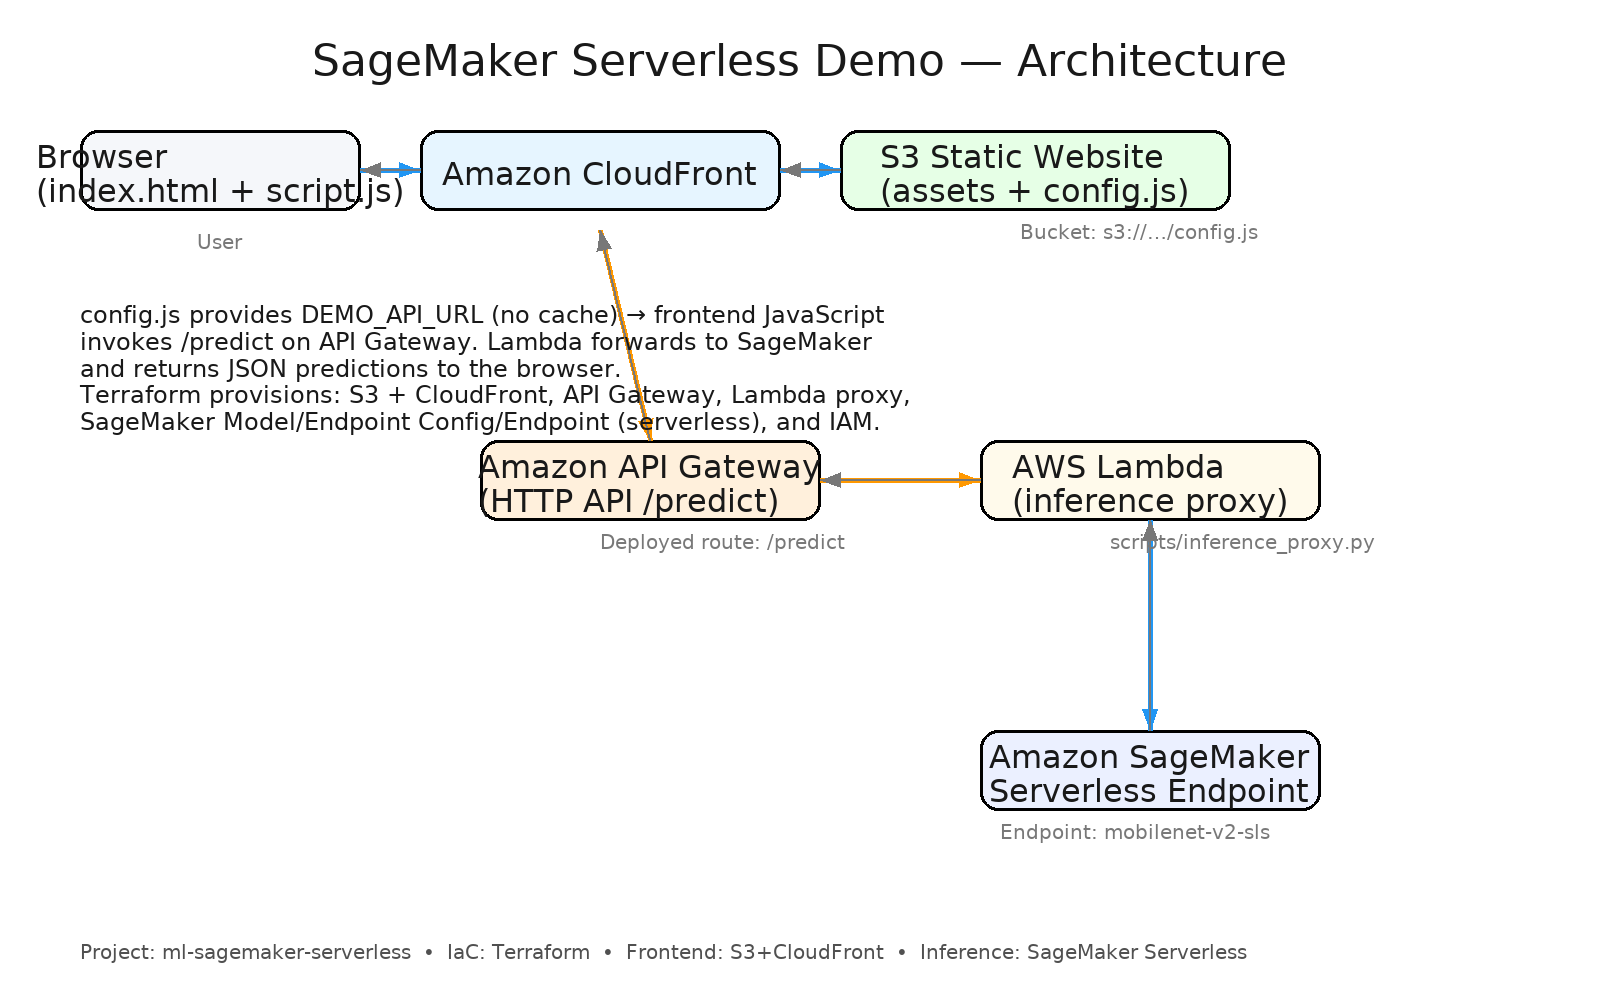
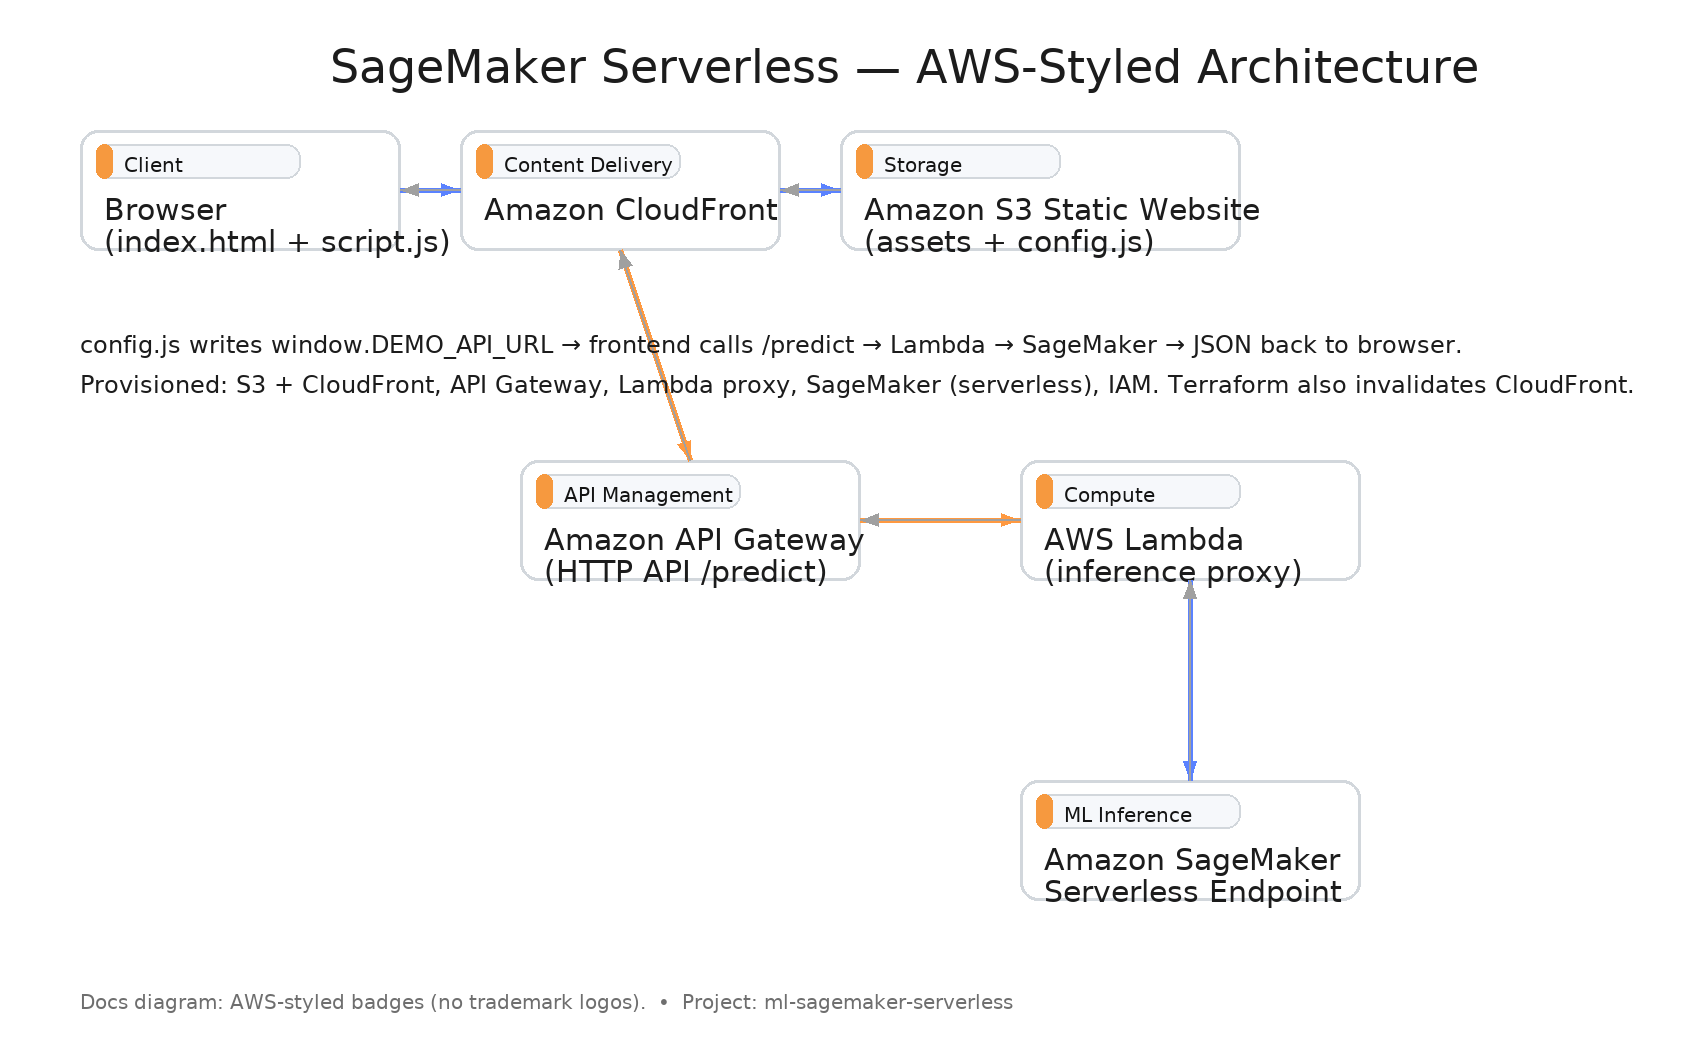
Docs: add architecture diagrams (clean + AWS annotated) and revamped README

Changed region(s): [[0.0312, 0.124, 0.9688, 0.868], [0.1875, 0.031, 0.875, 0.093], [0.0312, 0.93, 0.7812, 0.961]]

diff --git a/README.md b/README.md
@@ -2,35 +2,33 @@
 
 A minimal end‑to‑end demo that serves image classification via an **Amazon SageMaker Serverless Endpoint**, fronted by **API Gateway + Lambda** and a **static web UI on S3 + CloudFront**.
 
-![Architecture](./docs/sagemaker-serverless-architecture.png)
+<p align="center">
+  <img src="./docs/sagemaker-serverless-architecture.png" alt="Architecture diagram" width="900"/>
+</p>
 
 ---
 
 ## Live endpoints (from the latest `terraform apply`)
 
-- **Demo site:** `https://ml-demo.store`
-- **API URL:** `https://222izyufsl.execute-api.us-east-1.amazonaws.com/predict`
-- **Endpoint name:** `mobilenet-v2-sls`
+- **Demo site:** `https://ml-demo.store`  
+- **API URL:** `https://222izyufsl.execute-api.us-east-1.amazonaws.com/predict`  
+- **Endpoint name:** `mobilenet-v2-sls`  
 
-> These values are auto‑wired into `config.js` during deploy.
+These values are auto-wired into `config.js` during deploy.
 
 ---
 
-## Architecture (High level)
+## Architecture (high level)
 
-- **S3 + CloudFront** host the static UI (`index.html`, `script.js`, `style.css`). A small `config.js` file contains `window.DEMO_API_URL` and is uploaded with `no-cache` headers.
+- **S3 + CloudFront** host the static UI (`index.html`, `script.js`, `style.css`). A small `config.js` file contains `window.DEMO_API_URL` and is uploaded with **no-cache** headers; CloudFront is invalidated so clients always fetch the latest endpoint config.
 - **API Gateway (HTTP)** exposes `POST /predict`.
 - **Lambda (inference proxy)** receives browser requests and forwards payloads to **SageMaker**.
 - **SageMaker Serverless Endpoint** loads the **Mobilenet V2** model and returns predictions.
-- **Terraform** provisions the stack and writes `config.js`, then invalidates CloudFront.
-
-<p align="center">
-  <img src="./docs/sagemaker-serverless-architecture.png" alt="Architecture diagram" width="800"/>
-</p>
+- **Terraform** provisions the stack end‑to‑end and writes `config.js`.
 
 ---
 
-## Repo structure
+## Repository structure
 
 ```
 ml-sagemaker-serverless/
@@ -38,7 +36,7 @@ ml-sagemaker-serverless/
 │   ├── index.html
 │   ├── script.js
 │   └── style.css
-├── infra/                    # Terraform IaC (API Gateway, Lambda, S3, CF, SageMaker, IAM)
+├── infra/                    # Terraform (API Gateway, Lambda, S3, CF, SageMaker, IAM)
 │   ├── providers.tf
 │   ├── variables.tf
 │   ├── sagemaker_deploy.tf
@@ -50,83 +48,73 @@ ml-sagemaker-serverless/
 │   └── code/
 │       ├── inference.py
 │       └── requirements.txt
-└── scripts/
-    └── inference_proxy.py
+├── scripts/
+│   └── inference_proxy.py
+└── docs/
+    ├── sagemaker-serverless-architecture.png
+    └── sagemaker-serverless-annotated.png
 ```
 
 ---
 
-## Quick start (from a clean workstation)
+## Quick start
 
 ```
-# 1) Initialize and apply Terraform
 cd infra
 terraform init
 terraform apply -auto-approve
-
-# 2) Open the demo UI
-#    After apply, CloudFront + S3 serve the site and config.js points to the API.
 ```
 
-The comments for the commands above are placed here intentionally to follow your style preference.
+The comments for the commands above are placed here intentionally below the code block, per your style preference.
 
 ---
 
-## Invoke the API directly (without frontend)
+## API (contract)
+
+**Route:** `POST /predict` via API Gateway  
+**Body (example):** JSON with either an `image_url` or small inline payload (`base64` if enabled in your proxy).
 
 ```
 curl -sS -X POST   -H "Content-Type: application/json"   -d '{"image_url":"https://example.com/cat.jpg"}'   https://222izyufsl.execute-api.us-east-1.amazonaws.com/predict
 ```
 
-The comment for the command above is placed here intentionally to follow your style preference.
+The comment for the command above is placed here intentionally below the block.
+
+**Response:** JSON scores/classes produced by the model (Mobilenet V2 in this demo).
 
 ---
 
 ## Cost profile
 
-- **SageMaker Serverless**: pay‑per‑invocation (no instance running while idle).
-- **Lambda + API Gateway**: request‑driven.
-- **S3 + CloudFront**: minimal for a tiny static site; CloudFront helps reduce S3 GET costs at scale.
-- **Tip**: Keep large test images outside the repo; use presigned URLs or small assets for demos.
+- **SageMaker Serverless** — pay per request, no dedicated instances while idle.  
+- **Lambda + API Gateway** — request‑driven.  
+- **S3 + CloudFront** — minimal for a small static site; CloudFront helps reduce S3 GET costs at scale.  
+
+Tip: keep large test images outside the repo; prefer presigned URLs.
 
 ---
 
-## Clean up
+## Troubleshooting
+
+- **CORS**: ensure the Lambda proxy sets appropriate headers on the response.  
+- **Stale config**: `api_and_config.tf` writes `config.js` and issues a CloudFront invalidation; if the UI doesn’t call the right API, re‑apply or purge cache.  
+- **Model not loading**: verify `model.tar.gz` path and IAM permissions in `sagemaker_deploy.tf`.  
+- **403 from API**: check Lambda permission resource policy allowing API Gateway to invoke.
+
+---
+
+## Cleanup
 
 ```
 cd infra
 terraform destroy -auto-approve
 ```
 
-The comment for the commands above is placed here intentionally to follow your style preference.
-
----
-
-## RU: Кратко по‑русски
-
-- **UI** на S3 + CloudFront (статический сайт). `config.js` с `DEMO_API_URL` загружается с `no-cache` и инвалидацией CloudFront.
-- **/predict** через API Gateway (HTTP) → **Lambda** (proxy) → **SageMaker Serverless Endpoint** (модель **Mobilenet V2**).
-- **Terraform** создает ресурсы и публикует `config.js`, после чего фронт сразу готов.
-
-**Быстрый старт**
-
-```
-cd infra
-terraform init
-terraform apply -auto-approve
-```
-
-Комментарии к командам специально вынесены ниже блока.
-
----
-
-### Notes
-
-- Keep secrets in proper stores; this demo has no secrets beyond public URLs.
-- For real apps consider auth (Cognito, OAuth), request validation, monitoring (CloudWatch), and CI/CD.
+The comment for the command above is placed here intentionally below the block.
 
 ---
 
 ## 📘 Docs
 
-- [Architecture Diagram](./docs/sagemaker-serverless-architecture.png)
+- **Annotated (AWS services & roles):** `./docs/sagemaker-serverless-annotated.png`
+- **Primary diagram (README embed):** `./docs/sagemaker-serverless-architecture.png`
